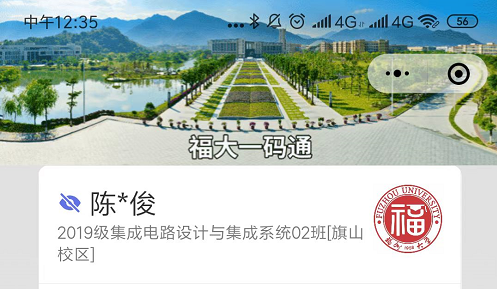
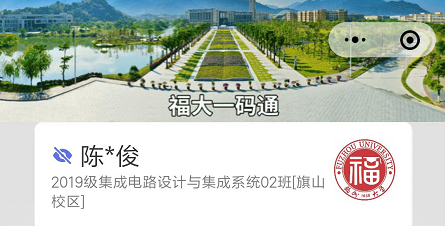
修复灰色实线

diff --git a/src/components/Top.vue b/src/components/Top.vue
@@ -1,13 +1,12 @@
 <template>
-  <img src="../assets/top.png" alt="" class="top">
+  <div class="Wrapper">
+    <img src="../assets/top.png" alt="" class="top">
+  </div>
 </template>
 
 <script>
 export default {
-  name: 'HelloWorld',
-  props: {
-    msg: String
-  }
+
 }
 </script>
 
@@ -15,5 +14,16 @@ export default {
 <style scoped>
 .top {
   width: 100%;
+}
+
+.Wrapper::before {
+  content: '';
+  display: inline-block;
+  position: absolute;
+  left: 8%;
+  top: 29%;
+  height: 4px;
+  width: 305px;
+  background: white;
 }
 </style>

diff --git a/src/components/CountDown.vue b/src/components/CountDown.vue
@@ -54,7 +54,7 @@ export default {
 .CountDownWrapper {
     margin-left: 28px;
     font-size: 20px;
-    margin-right: 25px;
+    margin-right: 26px;
     text-align: center;
     background: white;
     font-weight: 400;
